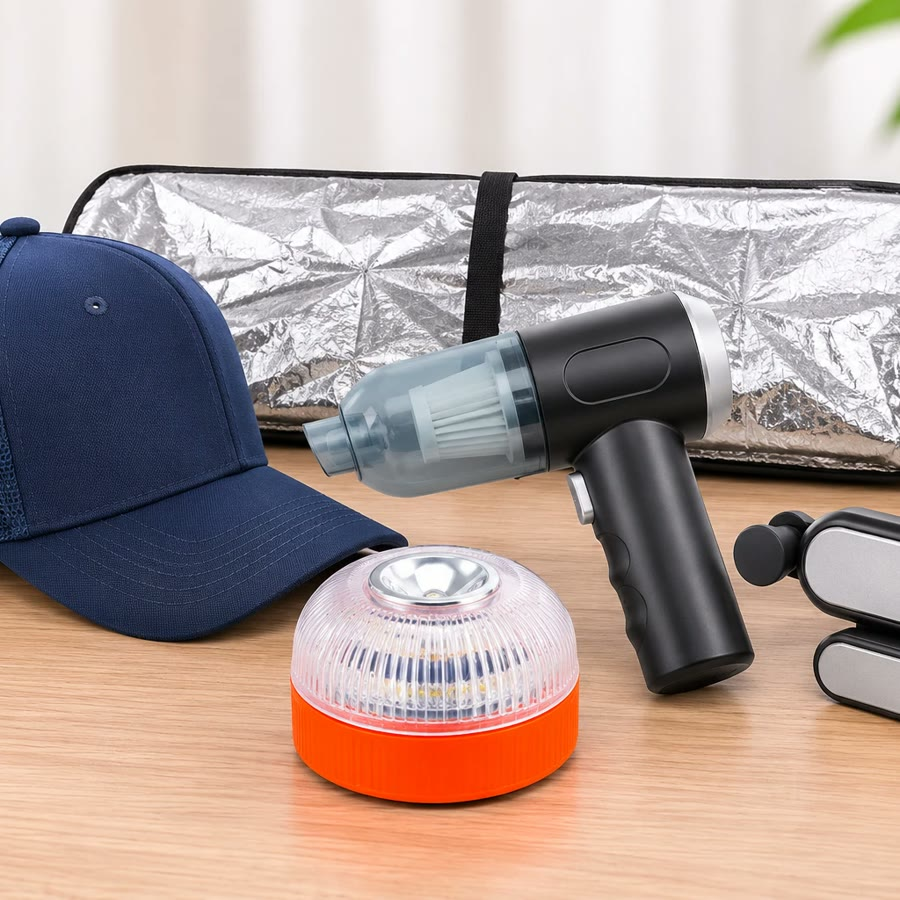
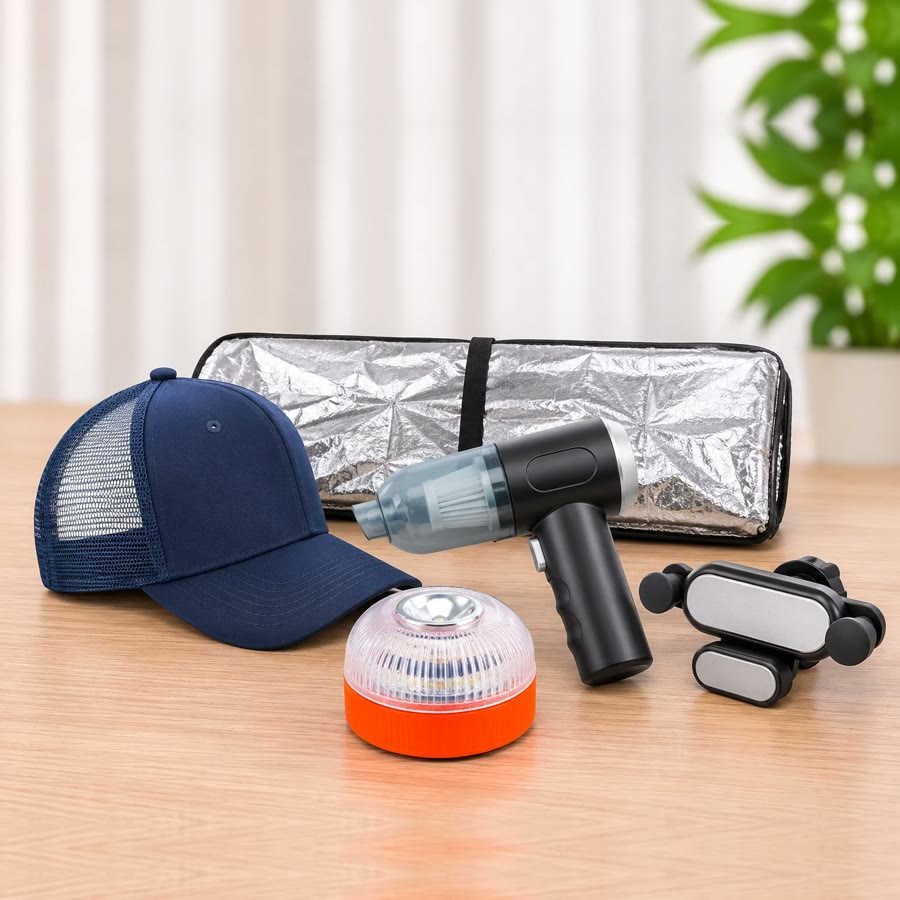
Kit 4 (Kit Ejecutivo) con foto real; Kit 3 reencuadrado para que se vean todos los productos

diff --git a/assets/js/products.js b/assets/js/products.js
@@ -278,6 +278,21 @@ const KITS = [
     ],
   },
   {
+    id: "kit-ejecutivo",
+    name: "Kit Ejecutivo",
+    tagline: "Caja de regalo para clientes VIP, gerentes y aliados",
+    brands: ALL,
+    // Kit 4 armado (foto real del kit)
+    photo: "assets/img/kits/kit-ejecutivo.jpg",
+    items: ["of-726", "metal-tw", "mu-380"],
+    contents: [
+      { name: "Caja de regalo rígida negra con inserto", ref: "A LA MEDIDA" },
+      { name: "Libreta ejecutiva tapa dura con placa metálica", ref: "A LA MEDIDA" },
+      { name: "Bolígrafo metálico", ref: "A LA MEDIDA" },
+      { name: "Vaso térmico metálico con tapa", ref: "A LA MEDIDA" },
+    ],
+  },
+  {
     id: "kit-electrico",
     name: "Kit Eléctrico",
     tagline: "Lanzamientos NEVO, Deepal, iCAR y Farizon",
